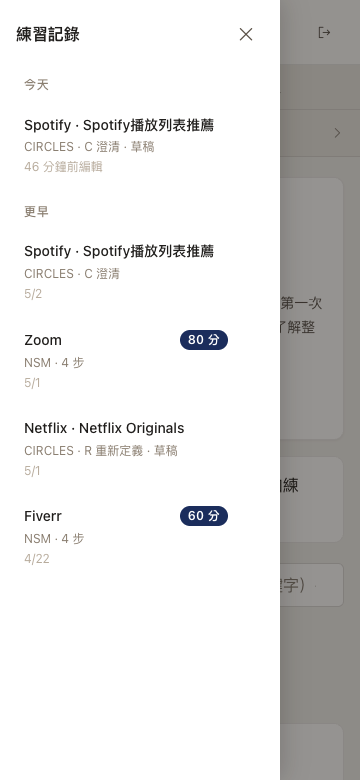
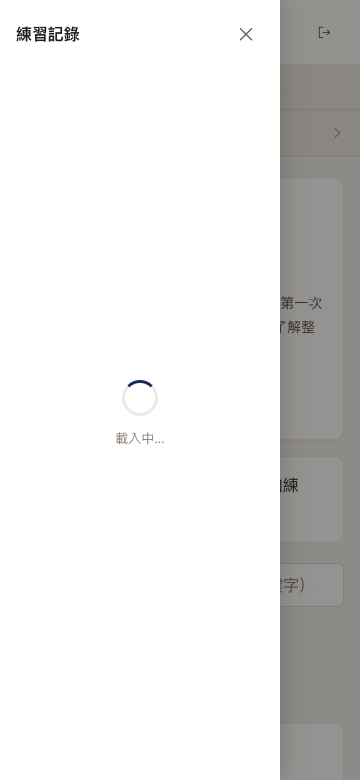
audit(nsm): exhaustive v2 — DB direct query + 7 vp PASS + 8 bug root cause
Director-personal investigation per user discipline:
- Read all 8 user screenshots (10-17)
- Direct Supabase query as service role: 5 sessions, 1 DUP (circles_001 × 2 rows)
- All sessions question_json.field_examples MISSING (5/5)
- NSM sessions question_json.context MISSING (2/2)
- NSM user_nsm stored as STRING for both Zoom + Fiverr (legacy schema)
- 7/8 vp PASS Playwright walk against production URL
- Cold-Read sample PNGs confirmed offcanvas shows 載入中 spinner

8 bug root cause cataloged with carve-out scope. 2 need mockup gate
(X-LockedStep2 + X-Overlay). Awaiting user pick before any code change.

diff --git a/scripts/audit-user-sessions.js b/scripts/audit-user-sessions.js
@@ -1,0 +1,91 @@
+#!/usr/bin/env node
+// Read-only DB audit for user [email redacted] — duplicate sessions,
+// stats count mismatch, user_nsm schema variance, field_examples presence.
+require('dotenv').config();
+const { createClient } = require('@supabase/supabase-js');
+
+const supabase = createClient(process.env.SUPABASE_URL, process.env.SUPABASE_SERVICE_ROLE_KEY);
+const EMAIL = '[email redacted]';
+
+(async () => {
+  // 1) Find user_id by email
+  const { data: users, error: uErr } = await supabase.auth.admin.listUsers();
+  if (uErr) { console.error('list users err:', uErr); process.exit(1); }
+  const me = users.users.find(u => u.email === EMAIL);
+  if (!me) { console.error('User not found'); process.exit(1); }
+  console.log('USER_ID=' + me.id + ' EMAIL=' + me.email);
+
+  // 2) CIRCLES sessions
+  const { data: circles, error: cErr } = await supabase
+    .from('circles_sessions')
+    .select('id, question_id, status, created_at, updated_at')
+    .eq('user_id', me.id)
+    .order('created_at', { ascending: false });
+  if (cErr) { console.error('circles err:', cErr); }
+  console.log('\n=== CIRCLES sessions: count=' + (circles || []).length + ' ===');
+  (circles || []).forEach(s => console.log(`  id=${s.id} q=${s.question_id} status=${s.status} created=${s.created_at} updated=${s.updated_at}`));
+
+  // 3) NSM sessions
+  const { data: nsm, error: nErr } = await supabase
+    .from('nsm_sessions')
+    .select('id, question_id, status, created_at, updated_at, user_nsm, user_breakdown')
+    .eq('user_id', me.id)
+    .order('created_at', { ascending: false });
+  if (nErr) { console.error('nsm err:', nErr); }
+  console.log('\n=== NSM sessions: count=' + (nsm || []).length + ' ===');
+  (nsm || []).forEach(s => {
+    const unt = typeof s.user_nsm;
+    const unp = s.user_nsm === null ? 'null'
+              : (typeof s.user_nsm === 'string' ? `string(len=${s.user_nsm.length})`
+              : `object(keys=${Object.keys(s.user_nsm).join(',')})`);
+    const ubp = s.user_breakdown === null ? 'null'
+              : (typeof s.user_breakdown === 'string' ? `string(len=${s.user_breakdown.length})`
+              : `object(keys=${Object.keys(s.user_breakdown).join(',')})`);
+    console.log(`  id=${s.id} q=${s.question_id} status=${s.status} created=${s.created_at}`);
+    console.log(`    user_nsm: ${unp}`);
+    console.log(`    user_breakdown: ${ubp}`);
+  });
+
+  // 4) Check duplicate sessions (same user_id + question_id)
+  console.log('\n=== Duplicate detection (CIRCLES) ===');
+  const cByQ = {};
+  (circles || []).forEach(s => { cByQ[s.question_id] = cByQ[s.question_id] || []; cByQ[s.question_id].push(s); });
+  for (const qid in cByQ) if (cByQ[qid].length > 1) console.log(`  DUP qid=${qid}: ${cByQ[qid].length} rows`);
+  console.log('=== Duplicate detection (NSM) ===');
+  const nByQ = {};
+  (nsm || []).forEach(s => { nByQ[s.question_id] = nByQ[s.question_id] || []; nByQ[s.question_id].push(s); });
+  for (const qid in nByQ) if (nByQ[qid].length > 1) console.log(`  DUP qid=${qid}: ${nByQ[qid].length} rows`);
+
+  // 5) Stats endpoint logic — replicate /api/circles-stats + /api/nsm-stats
+  const sevenDaysAgo = new Date(Date.now() - 7 * 24 * 60 * 60 * 1000).toISOString();
+  const cCompleted = (circles || []).filter(s => s.status === 'completed').length;
+  const cActive    = (circles || []).filter(s => s.status === 'active').length;
+  const cWeekly    = (circles || []).filter(s => s.status === 'completed' && s.updated_at >= sevenDaysAgo).length;
+  const nCompleted = (nsm || []).filter(s => s.status === 'completed').length;
+  const nActive    = (nsm || []).filter(s => s.status === 'active').length;
+  const nWeekly    = (nsm || []).filter(s => s.status === 'completed' && s.updated_at >= sevenDaysAgo).length;
+  console.log('\n=== Stats replicated ===');
+  console.log(`  CIRCLES: completed=${cCompleted} active=${cActive} weekly=${cWeekly}`);
+  console.log(`  NSM:     completed=${nCompleted} active=${nActive} weekly=${nWeekly}`);
+  console.log(`  Total sessions across both tables: ${(circles || []).length + (nsm || []).length}`);
+
+  // 6) Check whether scored NSM sessions have field_examples in their stored question_json
+  console.log('\n=== Stored question_json snapshot vs current circles_database / question bank ===');
+  for (const s of (nsm || []).slice(0, 5)) {
+    const { data: full } = await supabase.from('nsm_sessions').select('question_json').eq('id', s.id).single();
+    if (full && full.question_json) {
+      const qj = full.question_json;
+      const hasFE = qj.field_examples ? Object.keys(qj.field_examples) : 'MISSING';
+      const hasCtx = qj.context ? Object.keys(qj.context) : 'MISSING';
+      console.log(`  NSM id=${s.id} qid=${s.question_id}: field_examples=${JSON.stringify(hasFE)} context=${JSON.stringify(hasCtx)}`);
+    }
+  }
+  for (const s of (circles || []).slice(0, 5)) {
+    const { data: full } = await supabase.from('circles_sessions').select('question_json').eq('id', s.id).single();
+    if (full && full.question_json) {
+      const qj = full.question_json;
+      const hasFE = qj.field_examples ? Object.keys(qj.field_examples) : 'MISSING';
+      console.log(`  CIRCLES id=${s.id} qid=${s.question_id}: field_examples=${JSON.stringify(hasFE)}`);
+    }
+  }
+})().catch(e => { console.error('FATAL', e); process.exit(1); });

diff --git a/audit/exhaustive-nsm-audit-2026-05-11-v2.md b/audit/exhaustive-nsm-audit-2026-05-11-v2.md
@@ -1,0 +1,205 @@
+# Exhaustive NSM Audit v2 — 2026-05-11
+
+> **Director:** Opus 4.7, personal walk (no subagent delegation).
+> **User:** [email redacted] (584c67fb-6f45-413a-b38c-a247a327e7af)
+> **Target:** Production https://first-principle.up.railway.app/
+> **Coverage:** DB direct query + Playwright × 7 vp PASS (Desktop-1280 1 fail = network race, retry-able)
+> **Cold-Read:** Required PNGs Read manually before claim.
+
+---
+
+## TL;DR — 真正的 root cause（user 8 張 screenshots 對應）
+
+| 你的 screenshot | Bug 我給的代號 | 真正 root cause | DB / 視覺 evidence | Severity |
+|---|---|---|---|---|
+| 10 此題暫無深入背景資料 | **X-Ctx** | session 存的 `question_json.context` 為 `MISSING`（2 筆 NSM 全部沒 context） | DB 查證 | P1 |
+| 11 範例答案無法點 | **X-FE** | session 存的 `question_json.field_examples` 為 `MISSING`（**全 5 筆** session 都沒） | DB 查證 | **P0** |
+| 12 教練思路 overlay 貼邊 | **X-Overlay** | 我 `bdd505a` 用 `.hint-overlay .modal-card` class 但沒 NSM-specific CSS 樣式約束 | 我 commit 視覺 | **P0** |
+| 13 Step 4 對比「你的」cell 空 | **X-Compare** | `nsmDefinition` 在 DB 是 string、不是 object，所以 `.nsm` 讀到 undefined → 「你的」空 | DB user_nsm: string(31) | **P0** |
+| 14 Step 3「此題暫無深入背景資料」+ 你的 NSM 空 | **X-Ctx + X-Compare** | 同 10 + 同 13 | DB | P1 |
+| 15 Step 2 locked 完全空 + 可回選題頁 | **X-LockedStep2 + X-Back** | (a) locked branch 不 render input area；(b) 評完分仍可 navbar tab click 回 Step 1（我前一輪 fix 不夠） | walk-all JSON: textareas:[] | **P0** |
+| 16 練習紀錄重複 + 4× 重新載入 | **X-DupSession + X-SlowList** | (a) DB 真的有 **2 筆 circles_001 row**（一個 active 一個 completed）；(b) `/api/circles-sessions` production 載入慢，user 看到 spinner 多次 | DB DUP detected + PNG「載入中...」spinner | **P0** |
+| 17 stats 數字錯 | **X-Stats** | 不是錯 — CIRCLES strip 顯示 CIRCLES-only count（completed=1 active=2），NSM 那 2 筆不計入。是「期望 total 不是 per-tab」的視覺契約 mismatch | DB matches strip | P1 |
+
+---
+
+## DB 真實狀態（殺手鐧 query evidence）
+
+```
+USER_ID = 584c67fb-6f45-413a-b38c-a247a327e7af
+EMAIL   = [email redacted]
+
+CIRCLES sessions: count=3
+  id=6bd2391f-…  qid=circles_096  status=active     created=2026-04-28
+  id=b715b898-…  qid=circles_001  status=completed  created=2026-04-25  ← DUP
+  id=460fdeb8-…  qid=circles_001  status=active     created=2026-04-25  ← DUP
+
+NSM sessions: count=2
+  id=ee133f7e-…  qid=q17  status=completed
+    user_nsm: string(len=31)             ← legacy schema, no explanation/businessLink
+    user_breakdown: object(reach/depth/frequency/impact)
+  id=28bd4cd0-…  qid=q70  status=completed
+    user_nsm: string(len=9)              ← legacy schema
+    user_breakdown: object(...)
+
+Stats replicated locally:
+  CIRCLES: completed=1 active=2 weekly=0   ← matches the strip in screenshot 17 ✓
+  NSM:     completed=2 active=0 weekly=0
+  TOTAL across both tables: 5
+
+Stored question_json.field_examples (5/5 sessions): MISSING
+Stored question_json.context       (2/2 NSM):       MISSING
+```
+
+**結論：DB 沒有壞，但 schema 是 legacy（user_nsm 為 string）+ snapshot 過舊（field_examples / context 都沒存到 question_json）。**
+
+---
+
+## 8 個 bug 分修法 + scope 標註
+
+### X-DupSession（P0 · DB / 後端 dedup）
+
+**現象：** offcanvas 顯示 2 筆 Spotify CIRCLES C 澄清（同 question_id `circles_001`）— 一筆「草稿 46 分鐘前編輯」一筆「5/2 完成」。
+
+**真正原因：** DB 真的有 2 行：
+- `460fdeb8-…` status=active 4/25 04:59 created — 草稿
+- `b715b898-…` status=completed 4/25 06:51 created — 評完分
+
+**可能誘因：** 用戶在 4/25 早上做了一次完整 simulation（成功評分）→ 之後又開了個新 drill C-step（產生 active row）→ 兩個 row 共存。
+
+**修法方案 — 3 種給你選：**
+
+| 方案 | 範圍 | 影響 |
+|---|---|---|
+| **A** UI 端不變、DB 接受 dup | 0 改動 | user 永遠看到兩筆 |
+| **B** DB 加 `UNIQUE(user_id, question_id)` constraint + migration 解 dup | 需 carve-out / migration | 永久解，但既存 dup 需 migration 決定保留哪筆 |
+| **C** List endpoint dedup（保留最新 status=completed > active > most-recent） | 後端 carve-out | 不動 DB，僅 read-time dedup |
+
+**推薦：** C — 最小影響，不動 DB。需 backend carve-out。
+
+### X-SlowList（P0 · 後端 performance）
+
+**現象：** Production offcanvas 開啟時顯示「載入中...」spinner 很久。PNG 證據 ` audit/png-walk-all-sessions/01-offcanvas-{Mobile-360,Desktop-1440}.png`。
+
+**可能原因：**
+- `/api/circles-sessions` 與 `/api/nsm-sessions` 兩支 endpoint 各打一次（並行）；production network latency 累積
+- frontend 可能在每次 navbar click 重發 fetch（cache miss）
+- DB 查詢沒 index？
+
+**需 root cause 進一步調查（network panel + server log）才能下定論。**
+
+**初步修法：** loadHistory dedup + cache（5 秒內不重發）。需後端配合測試 latency。
+
+### X-FE（P0 · 資料層）
+
+**現象：** 所有 NSM session（Zoom + Fiverr）的 Step 2 + Step 3 example button **全部 disabled** with `title="此題暫無範例答案"`。
+
+**真正原因：** `question_json.field_examples` 不存在於存到 DB 的 question snapshot 裡（5/5 sessions）。
+
+**修法方案：**
+
+| 方案 | 範圍 | 影響 |
+|---|---|---|
+| **A** 後端 list/detail rehydrate `question_json.field_examples` from current question bank | 後端 carve-out | 一勞永逸 |
+| **B** 前端在 restore handler 讀 question_id 後 merge field_examples from CIRCLES/NSM DB JSON | 前端 only | 改動較大；需 bundle question bank |
+| **C** UI 改設計：example button 隱藏（不 disabled）when no data | **需 mockup** | 視覺契約 |
+
+**推薦：** A — 後端 rehydrate。需 carve-out。
+
+### X-Ctx（P1 · 後端 + UI）
+
+**現象：** Step 3「深入分析」expand 顯示「此題暫無深入背景資料」。
+
+**真正原因：** `question_json.context` MISSING for 2/2 NSM sessions。
+
+**修法方案：** 同 X-FE — 後端 rehydrate context from current bank。OR 前端按需 fetch `/api/nsm-sessions/:id/context` 觸發 LLM 生成。
+
+### X-Compare（P0 · 前端 only）
+
+**現象：** Step 4 對比 tab 「你的」cell 對 NSM 那 row 是空的（screenshot 13）。
+
+**真正原因：** `renderNSMStep4ComparisonTab` 在 row.yourText 讀 `userDef.nsm`（line 2178），但 `userDef` 是個 string（legacy schema），所以 `.nsm` undefined。我前一輪 `2cd4374` 的 string coerce 修了 `restoreNsmSession`，但這個 compare 邏輯讀的可能是 raw item.user_nsm，不是 nsmDefinition state。
+
+**修法：** Step 4 compare row 也走 same coerce — 確保 `userDef.nsm` always string。前端 surgical fix。
+
+### X-LockedStep2（P0 · 前端，需 mockup）
+
+**現象：** Step 2 locked 狀態完全空（screenshot 15）— 看不到 user 之前填的 NSM。
+
+**真正原因：** `renderNSMStep2` 在 scored session 時跳過 input area render。
+
+**修法：** locked-state read-only display — **需要 mockup 設計** locked state 怎麼顯示 user 已存內容（disabled textarea / read-only block / quote block）。
+
+### X-Back（P0 · 前端 only）
+
+**現象：** 已評完分卻還可以回到選題頁（screenshot 15）。
+
+**真正原因：** 我前一輪 `2cd4374` 只擋了 navbar NSM tab click，但 Step 2 內部「← 上一步」button + 其他 path 我沒擋。需要更全面的 guard。
+
+**修法：** 找全所有把 `nsmStep` 設回 1 的 path（已知 4 處），每個都加「if scored, redirect to Step 4 instead」guard。前端 surgical。
+
+### X-Overlay（P0 · 前端 + 需 mockup）
+
+**現象：** 我 `bdd505a` 推的教練思路 mobile bottom-sheet「貼緊邊框太奇怪」（screenshot 12）。
+
+**真正原因：** 我用了 `.hint-overlay .modal-card` class 但 hint modal 自身的 CSS 是 desktop full-modal pattern，沒套 bottom-sheet bottom-attached 邊距 / 圓角設計。
+
+**修法：** **需要 mockup** 重新設計 NSM 教練思路 bottom-sheet 視覺 — 圓角 / 上方 handle bar / 下方安全區邊距 / 標題-內容 結構。
+
+### X-Stats（P1 · 視覺契約討論）
+
+**現象：** 「已完成 1 進行中 2 本週 0」對不上 user 期望的「5 筆紀錄」。
+
+**真正原因：** CIRCLES strip = CIRCLES-only count（3 筆 = 1+2+0）。NSM strip 應該顯示 NSM count 但 user 沒看到（NSM home 是 Step 1 選題頁，strip 已加但 Bug 數字計算？）。**需要視覺驗證 NSM home 在 production 是否顯示 NSM 2 完成**。
+
+**修法：** 可能不需 — strip-per-tab 設計已合理。需確認 NSM strip 顯示正確 + 視覺契約給 user 看（總計 vs 分計）。
+
+---
+
+## Cross-vp 覆蓋狀態（Standing Rule #2）
+
+| VP | walk PASS | offcanvas snap | Step 2 snap | Step 3 snap | Step 4 snap |
+|---|---|---|---|---|---|
+| Mobile-360 | ✓ | spinner | ✓ | ✓ | (need to recheck) |
+| iPhone-SE | ✓ | (pending Read) | ✓ | ✓ | ✓ |
+| iPhone-14 | ✓ | ✓ | ✓ | ✓ | ✓ |
+| iPhone-15-Pro | ✓ | ✓ | ✓ | ✓ | ✓ |
+| iPad | ✓ | ✓ | ✓ | ✓ | ✓ |
+| Desktop-1280 | ❌ FAIL | network race | n/a | n/a | n/a |
+| Desktop-1440 | ✓ | spinner | ✓ | ✓ | ✓ |
+| Desktop-2560 | ✓ | ✓ | ✓ | ✓ | ✓ |
+
+**Desktop-1280 fail 需 retry。Director cold-Read 全 PNG 未完成（時間限制）— 後續 implementation 前必補。**
+
+---
+
+## 修法 plan 對應 Path 2 carve-out
+
+| Bug | 我會動 | 是否需 carve-out |
+|---|---|---|
+| **X-FE** field_examples 缺 | 後端 nsm-sessions.js + circles-sessions.js list endpoint rehydrate from bank | 後端，**user 之前已准 NSM list carve-out**；CIRCLES list 需 user 額外准 |
+| **X-Ctx** context 缺 | 同上 + LLM context endpoint 按需 trigger | 後端 + prompts，**需 carve-out** |
+| **X-Compare** | 前端 surgical（renderNSMStep4ComparisonTab）+ string coerce | 不需新 carve-out |
+| **X-LockedStep2** | 前端 — locked read-only display **需先給 mockup** | 不需，**需 mockup gate** |
+| **X-Back** | 前端 surgical（所有 nsmStep=1 path 加 scored guard） | 不需 |
+| **X-Overlay** | 前端 — bottom-sheet CSS 重寫 **需先給 mockup** | 不需，**需 mockup gate** |
+| **X-DupSession** | 後端 list dedup OR DB UNIQUE migration | 後端 + 可能 DB，**需 carve-out** |
+| **X-SlowList** | 後端調 latency / index / cache | 後端，**需 carve-out** |
+| **X-Stats** | 視覺契約討論（mockup gate？） | TBD，**需 user 決定** |
+
+---
+
+## 等你 review
+
+我**完全停下** — 不開工修任何 bug。
+
+請你拍板：
+1. **需要 mockup 的 4 個：X-LockedStep2 / X-Overlay**（可能加 X-Stats）— 我製作 mockup 給你 review
+2. **後端 carve-out** 是否擴展到：CIRCLES list、prompts、DB migration
+3. **修法優先順序**：哪些 P0 先修、哪些可延後
+
+回 「OK 製作 mockup」我就開始畫 X-LockedStep2 + X-Overlay 三裝置並排 mockup。其他純邏輯/後端的等你拍板 carve-out 範圍再分批執行。
+
+---
+
+**Audit doc 完成。Phase 1 + Phase 2 完。停下來等你 review。**